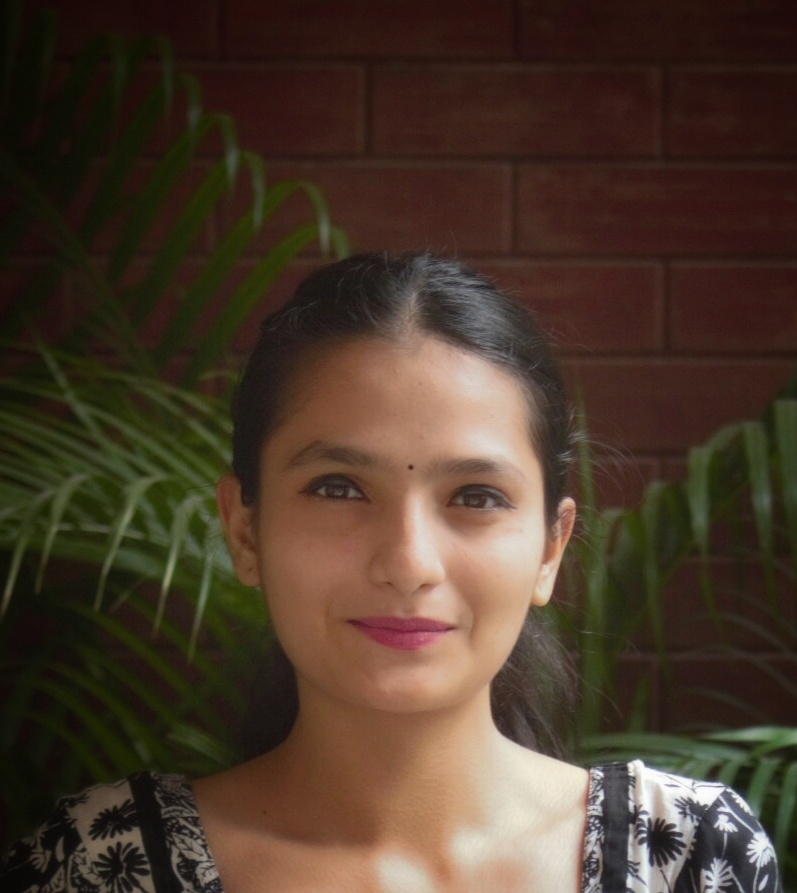
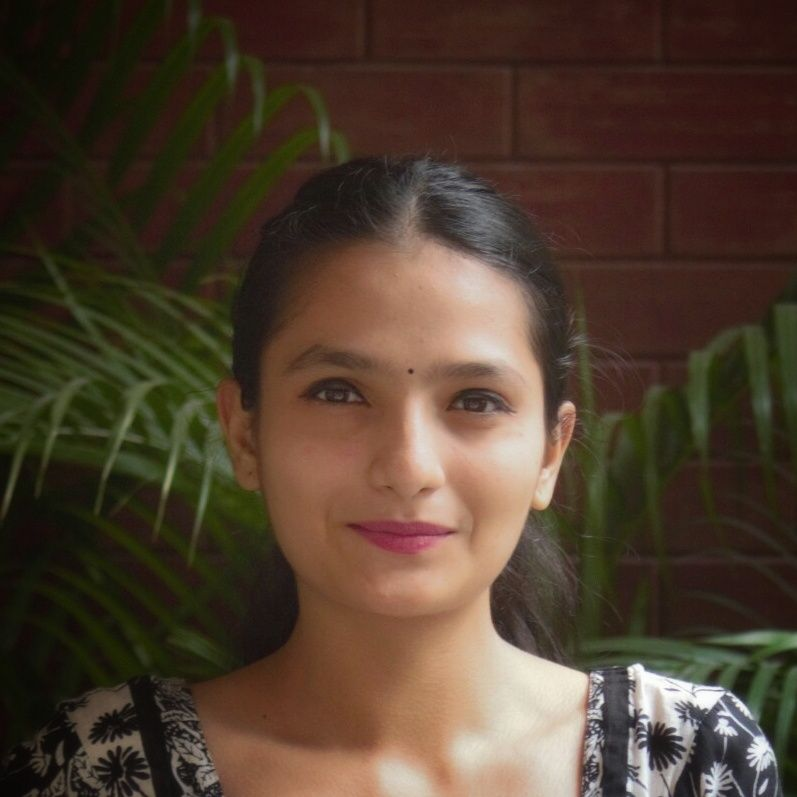
changes teams page

diff --git a/public/Team.html b/public/Team.html
@@ -58,12 +58,12 @@
     <h3 style="font-family:verdana; font-size: 20px; color: aliceblue;">President</h2>
     </div>
     <div class="column">
-    <img src="public/images/Kamal.jpeg" style="width:180px " id="circle">
+    <img src="public/images/Vidushi.jpeg" style="width:180px " id="circle">
     <h2 style="font-family:verdana; font-size: 30px; color: aliceblue;">Vidushi Chaurishi</h2>
     <h3 style="font-family:verdana; font-size: 20px; color: aliceblue;">Vice President</h2>
     </div>
     <div class="column">
-        <img src="public/images/Kamal.jpeg" style="width:180px " id="circle">
+        <img src="public/images/Sakshi.jpeg" style="width:180px " id="circle">
         <h2 style="font-family:verdana; font-size: 30px; color: aliceblue;">Sakshi Goenka</h2>
         <h3 style="font-family:verdana; font-size: 20px; color: aliceblue;">Union Coordinator</h2>
     </div>
@@ -72,17 +72,17 @@
     <br>
     <div class="row">
     <div class="column">
-    <img src="public/images/Kamal.jpeg" style="width:180px " id="circle">
+    <img src="public/images/Ojasvi.jpg" style="width:180px " id="circle">
     <h2 style="font-family:verdana; font-size: 30px; color: aliceblue;">Ojasvi Gupta</h2>
     <h3 style="font-family:verdana; font-size: 20px; color: aliceblue;">Cultural Secretary</h2>
     </div>
     <div class="column">
-    <img src="public/images/Kamal.jpeg" style="width:180px " id="circle">
+    <img src="public/images/Varsha.jpeg" style="width:180px " id="circle">
     <h2 style="font-family:verdana; font-size: 30px; color: aliceblue;">Varsha KR</h2>
     <h3 style="font-family:verdana; font-size: 20px; color: aliceblue;">Treasurer</h2>
     </div>
     <div class="column">
-    <img src="public/images/Kamal.jpeg" style="width:180px " id="circle">
+    <img src="public/images/Nikita.png" style="width:180px " id="circle">
     <h2 style="font-family:verdana; font-size: 30px; color: aliceblue;">Nikita Jangid</h2>
     <h3 style="font-family:verdana; font-size: 20px; color: aliceblue;">General Secretary</h2>
     </div>

diff --git a/public/contactus.html b/public/contactus.html
@@ -12,7 +12,7 @@
     <link rel='stylesheet' href='https://maxcdn.bootstrapcdn.com/bootstrap/3.3.5/css/bootstrap.min.css'>
     <link rel="stylesheet" href="public/css/stylefooter.css" type="text/css">
     <link rel="stylesheet" type="text/css" href="public/css/stylenav.css">
-    <link rel="stylesheet" href="public/css/stylesevents.css">
+    <link rel="stylesheet" href="public/css/stylescontactus.css">
 
   </head>
   <body>
@@ -33,9 +33,7 @@
       </ul>
     </nav>
   </div>
-    <div class="header1">
-      <h1>ABOUT US</h1>
-    </div>
+  <h1 style="font-family:verdana; font-size: 50px ; color: #834c69; " id="header">ABOUT US</h1>
 
     <div class="social-media-icons">
     <a href="https://m.facebook.com/IPTECHNOBYTES/?tsid=0.6936318892613715&source=result" class="c-link c-link--facebook c-tooltip" aria-label="Facebook">

diff --git a/public/css/stylescontactus.css b/public/css/stylescontactus.css
@@ -1,0 +1,25 @@
+body{
+  box-sizing: border-box;
+  margin: 0;
+  text-align: center;
+  font-size: 100%;
+}
+
+  .header1 {
+    margin: 0 px;
+    background-color: #dcb5ff;
+    height: 400px;
+    width: 100%;
+    text-align: center;
+
+  }
+  .header1 h1 {
+    font-family: monospace;
+    margin-top: 0;
+    font-size: 10em;
+    padding: 40px;
+    padding-top : 170px;
+    letter-spacing: 3px;
+    text-align: center;
+
+  }
